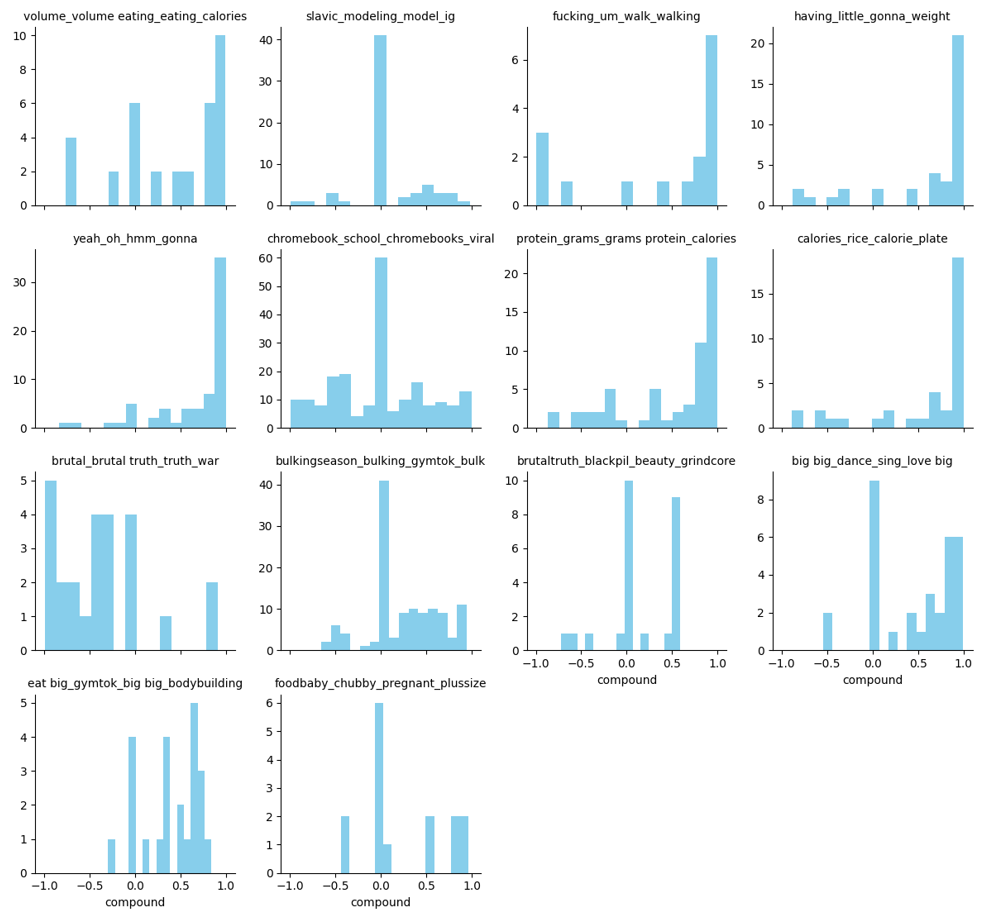
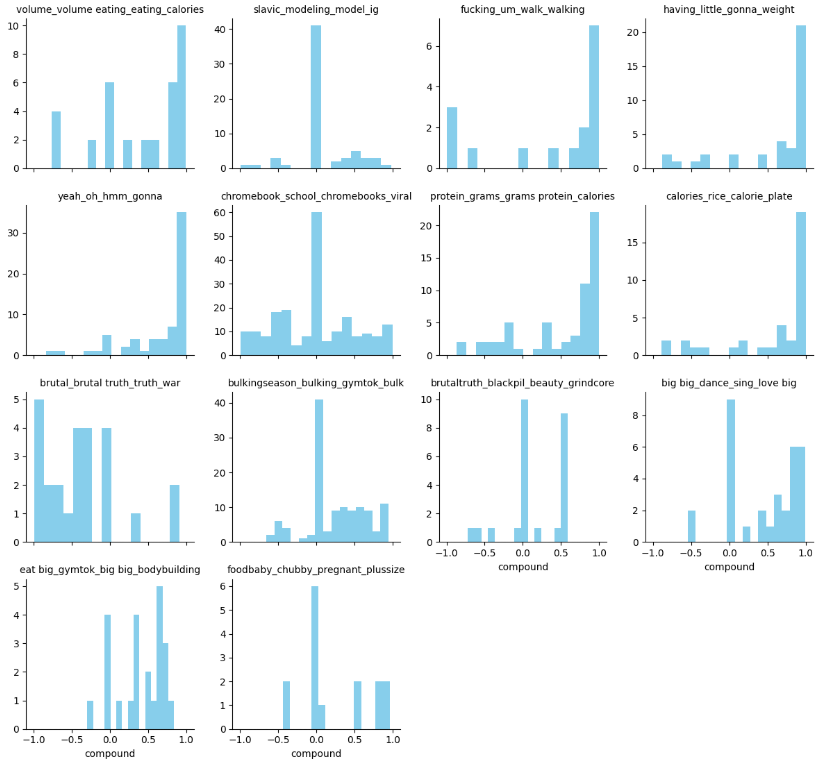
Updated resolution for reddit sentiment score distribution by topic histograms

diff --git a/README.md b/README.md
@@ -72,8 +72,6 @@ This research project investigates youth mental health trends and harmful behavi
 <img src="figures/tiktok_sentiment_score_distribution_by_topic_1.png" width="1000">
 <img src="figures/tiktok_sentiment_score_distribution_by_topic_2.png" width="1000">
 
-> Note: Image quality is reduced for now; a higher-resolution version will be added soon.
-
 #### Figure 3.4: YouTube Shorts
 <img src="figures/youtube_sentiment_score_distribution_by_topic.png" width="1000">
 
